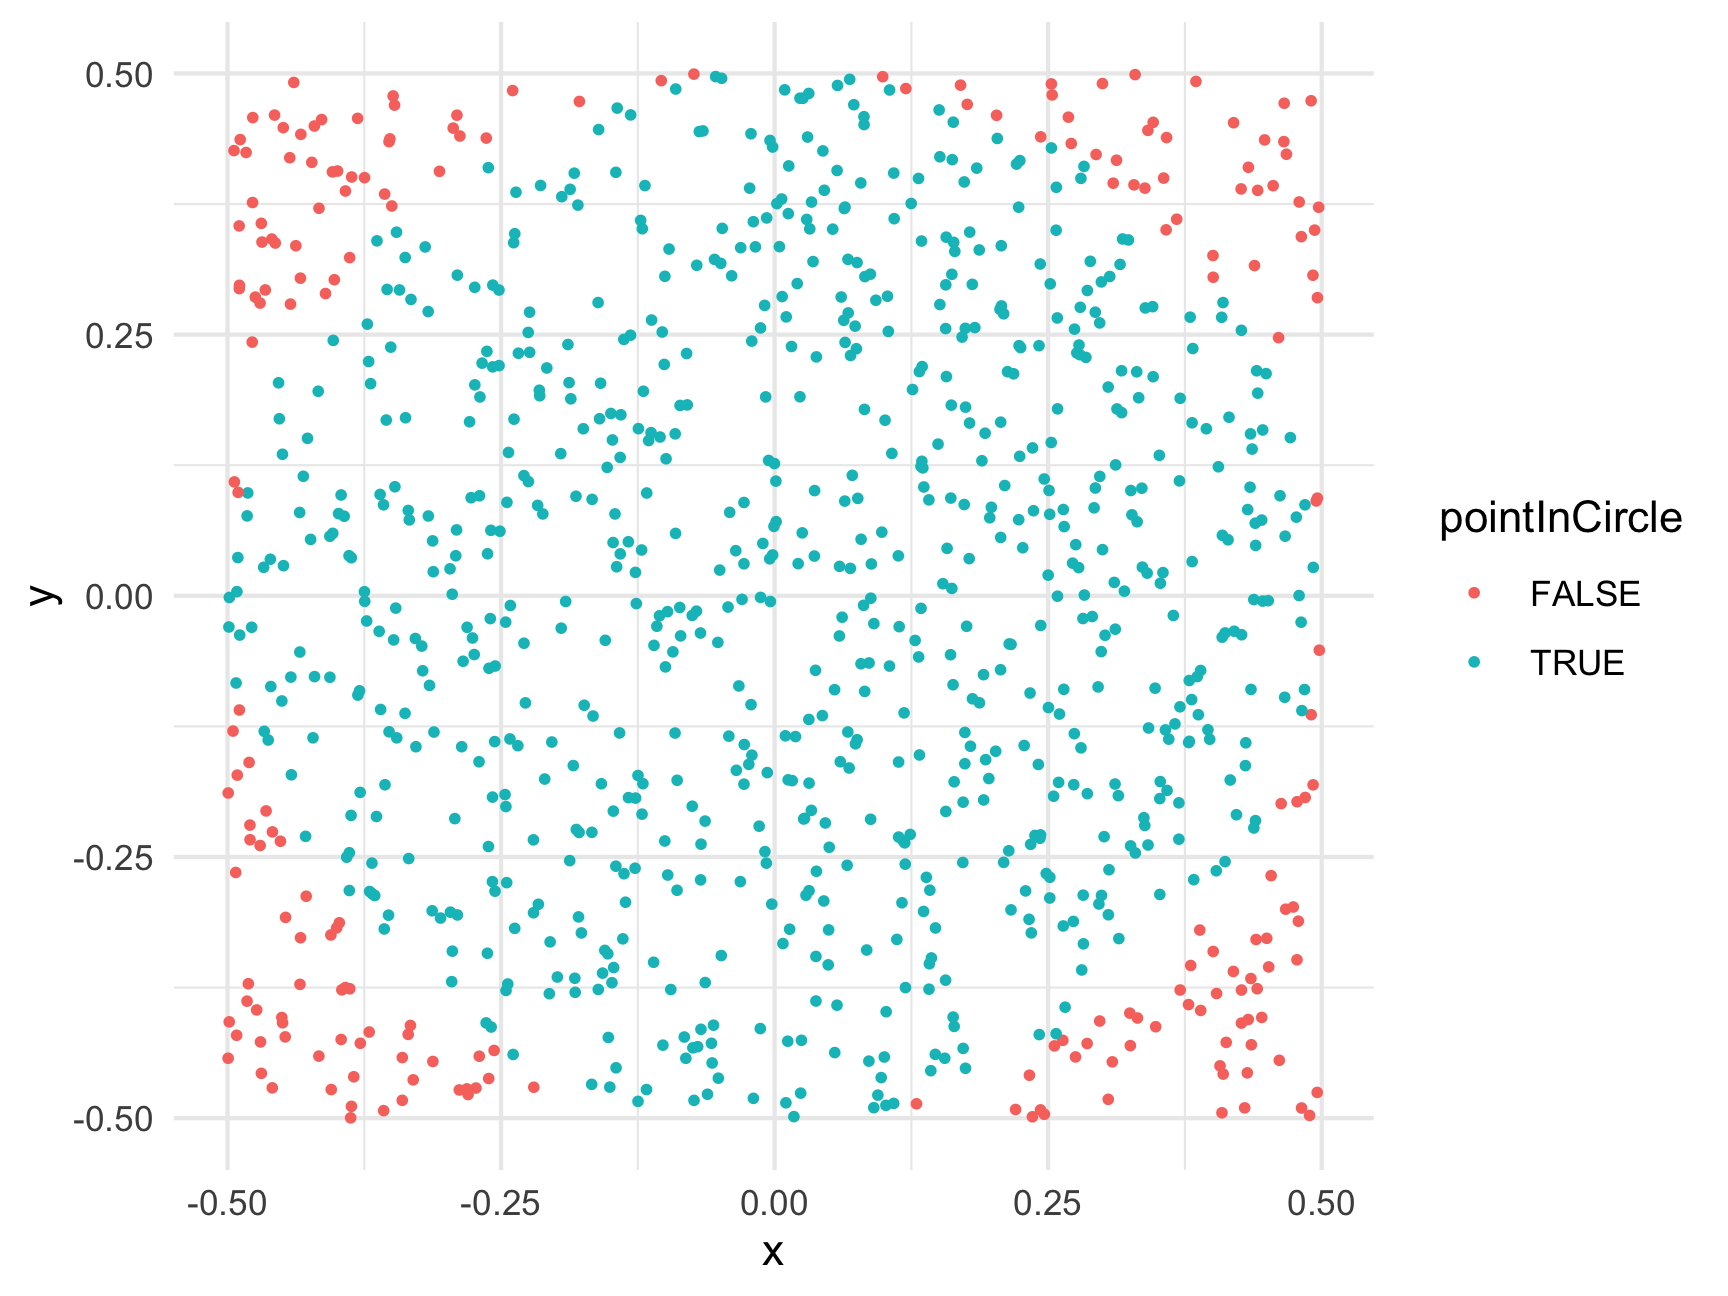
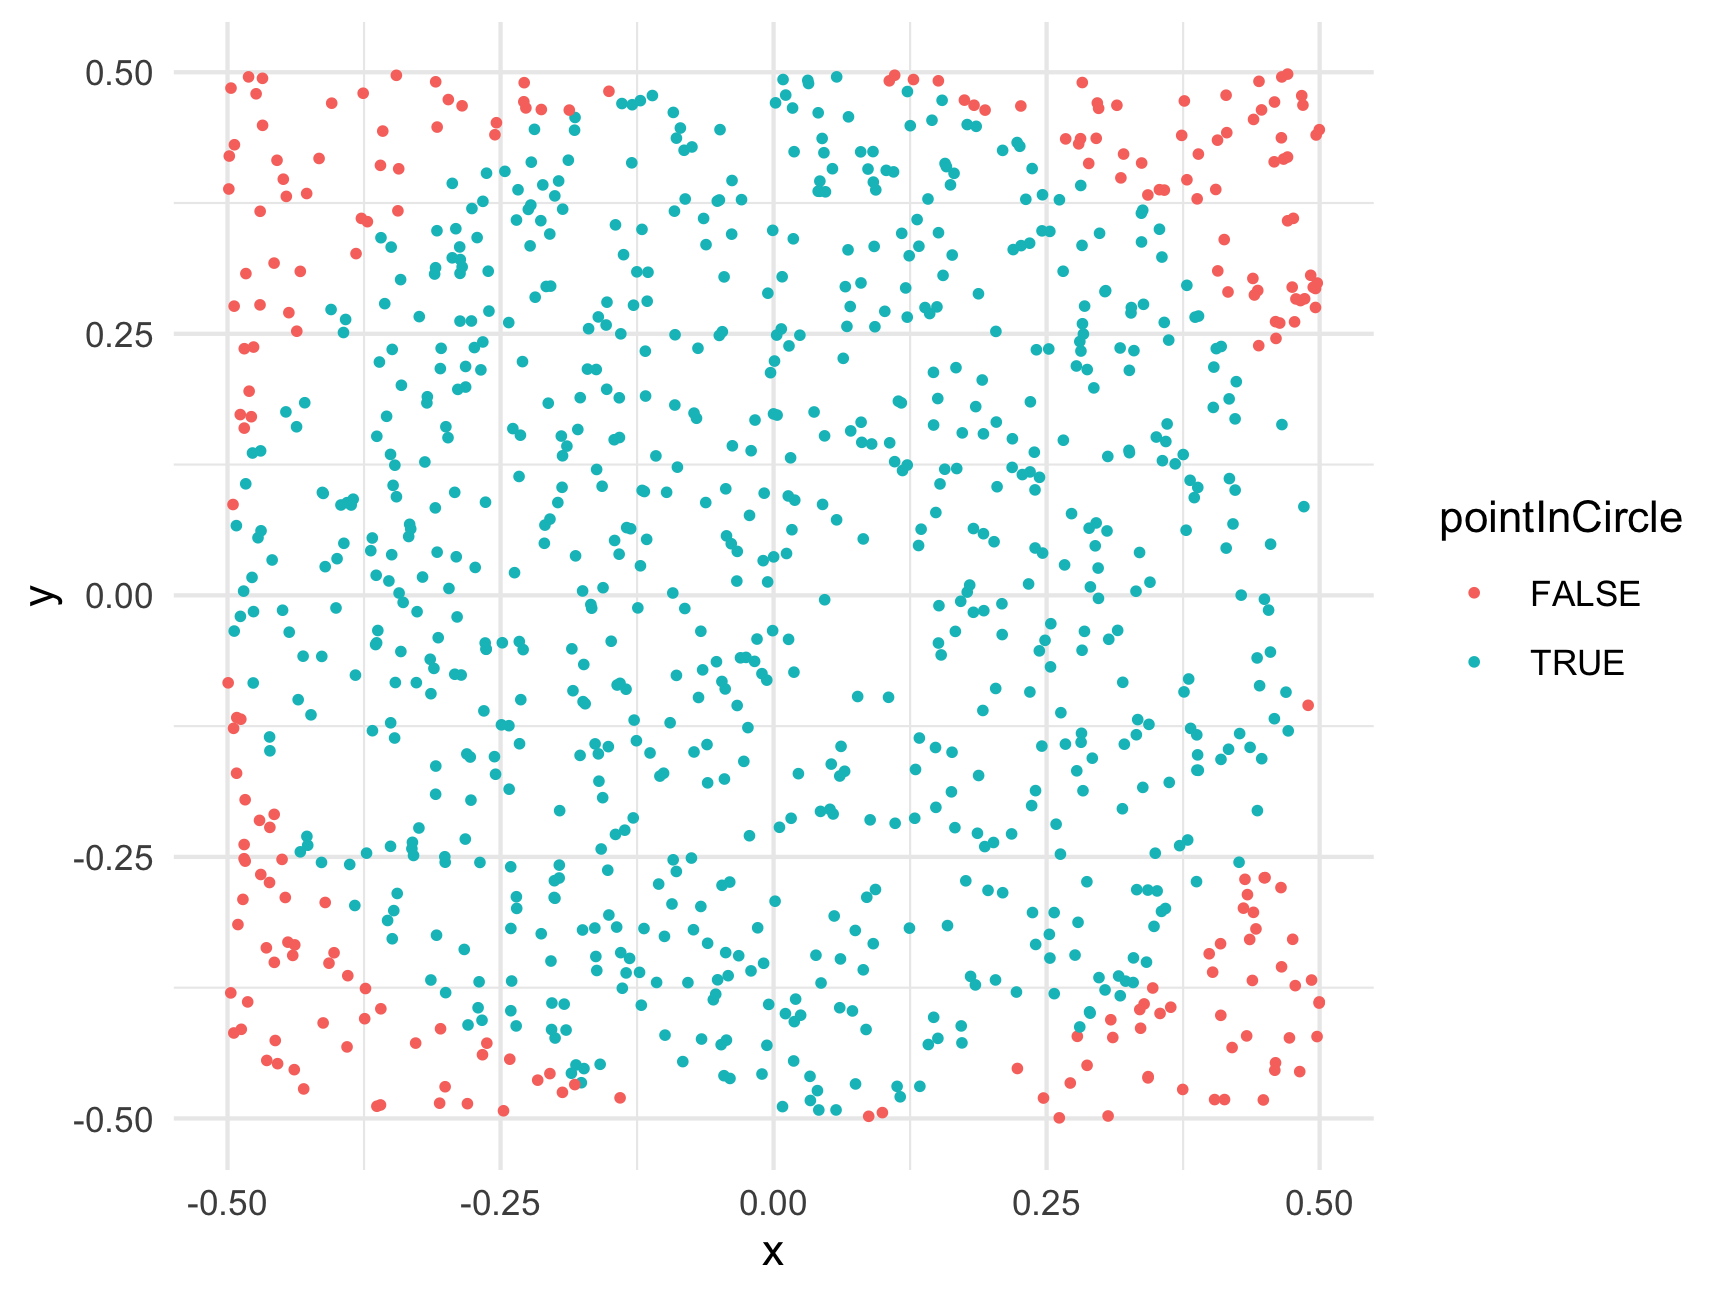
Deploying to gh-pages from  @ 3c5834ce94aec20487a9ab78e16fb2f2db5c8446 🚀

diff --git a/r13-monte-carlo-methods.html b/r13-monte-carlo-methods.html
@@ -805,11 +805,11 @@ ratio &lt;- sum(belowCurve) / numTrials
 totalArea &lt;- (7 - 3) * 7^2 # Rectangle length x height = 196
 areaUnderCurve &lt;- ratio * totalArea
 areaUnderCurve</code></pre>
-<pre><code>#&gt; [1] 105.3343</code></pre>
-<p>So, using Monte Carlo simulation with 100,000 points, we estimate that the area under the curve is 105.33432. How’d we do? Well, if you’re familiar with calculus, the integral of <span class="math inline">\(f(x) = x^2\)</span> has a closed-form solution (<span class="math inline">\(\frac{x^3}{3} + C\)</span>), so we can check our estimate against the pure-math solution:</p>
+<pre><code>#&gt; [1] 105.4264</code></pre>
+<p>So, using Monte Carlo simulation with 100,000 points, we estimate that the area under the curve is 105.42644. How’d we do? Well, if you’re familiar with calculus, the integral of <span class="math inline">\(f(x) = x^2\)</span> has a closed-form solution (<span class="math inline">\(\frac{x^3}{3} + C\)</span>), so we can check our estimate against the pure-math solution:</p>
 <p><span class="math display">\[\int_{3}^{7} x^2 \mathrm{dx} = \left ( \frac{x^3}{3} \right ) \Big|_3^7 = \frac{7^3}{3} - \frac{3^3}{3} = 105.33\bar{3}\]</span></p>
-<p>So our estimate error is: <code>105.333 -</code> <code>105.33432</code> <code>=</code> <code>-9.8666667\times 10^{-4}</code>.</p>
-<p>That’s an error of just 0 % - not bad!</p>
+<p>So our estimate error is: <code>105.333 -</code> <code>105.42644</code> <code>=</code> <code>-0.0931067</code>.</p>
+<p>That’s an error of just 0.09 % - not bad!</p>
 <hr />
 </div>
 <div id="monte-carlo-pi" class="section level1">
@@ -839,13 +839,13 @@ points &lt;- data.frame(
     x = runif(numTrials, -0.5, 0.5),
     y = runif(numTrials, -0.5, 0.5))
 head(points)</code></pre>
-<pre><code>#&gt;             x           y
-#&gt; 1  0.18081898 -0.09856553
-#&gt; 2 -0.11851708  0.39269053
-#&gt; 3  0.11892220 -0.23647738
-#&gt; 4  0.03818464 -0.26371439
-#&gt; 5  0.36024077 -0.13722109
-#&gt; 6 -0.41710722  0.19576507</code></pre>
+<pre><code>#&gt;            x             y
+#&gt; 1 -0.1388532  0.4700699679
+#&gt; 2 -0.2472824 -0.4926621153
+#&gt; 3  0.4281646  0.0001931088
+#&gt; 4  0.2814228  0.2335081240
+#&gt; 5  0.4226283  0.1006016806
+#&gt; 6  0.2309549  0.3785481735</code></pre>
 <p>For this example, we’re putting the points in a data frame to make it easier to work with. Now that we have random x and y points, let’s compute the radius to each point (the distance from <code>(x, y) = (0, 0)</code>) so we can determine which points fall inside the circle (which has a radius of 0.5):</p>
 <pre class="r"><code>library(dplyr)
 points &lt;- points %&gt;%
@@ -862,9 +862,9 @@ ggplot(points) +
 <pre class="r"><code>ratio &lt;- sum(points$pointInCircle) / nrow(points)
 piApprox &lt;- 4 * ratio
 piApprox</code></pre>
-<pre><code>#&gt; [1] 3.148</code></pre>
-<p>So our estimate error is: <code>3.1415 -</code> <code>3.148</code> <code>=</code> <code>0.0064073</code>.</p>
-<p>That’s an error of just 0.2 % - not bad for only 1,000 points!</p>
+<pre><code>#&gt; [1] 3.096</code></pre>
+<p>So our estimate error is: <code>3.1415 -</code> <code>3.096</code> <code>=</code> <code>-0.0455927</code>.</p>
+<p>That’s an error of just 1.45 % - not bad for only 1,000 points!</p>
 <p>To get an even better estimate of <span class="math inline">\(\pi\)</span>, we can increase N. Let’s see what we get with 100,000 trials:</p>
 <pre class="r"><code>numTrials &lt;- 100000
 points &lt;- data.frame(
@@ -876,13 +876,13 @@ points &lt;- data.frame(
 ratio &lt;- sum(points$pointInCircle) / nrow(points)
 piApprox &lt;- 4 * ratio
 piApprox</code></pre>
-<pre><code>#&gt; [1] 3.13324</code></pre>
+<pre><code>#&gt; [1] 3.13704</code></pre>
 <pre class="r"><code># Compute error:
 error &lt;- piApprox - pi
 percentError &lt;- round(100*abs(error / pi), 2)
 percentError</code></pre>
-<pre><code>#&gt; [1] 0.27</code></pre>
-<p>By increasing the number of trials from 1,000 to 100,000, we improved our estimate error from 0.2 % to 0.27 %!</p>
+<pre><code>#&gt; [1] 0.14</code></pre>
+<p>By increasing the number of trials from 1,000 to 100,000, we improved our estimate error from 1.45 % to 0.14 %!</p>
 <hr />
 <p><strong>Page sources</strong>:</p>
 <p>Some content on this page has been modified from other courses, including:</p>

diff --git a/r2-functions-packages.html b/r2-functions-packages.html
@@ -763,7 +763,7 @@ div.tocify {
 <p>Here the letters <code>sqrt</code> are short for “square root,” and the value inside the <code>()</code> is the “argument” to the function. In the example above, the value <code>225</code> is the “argument”.</p>
 <p>Keep in mind that not all functions have (or require) arguments:</p>
 <pre class="r"><code>date() # Returns the current date and time</code></pre>
-<pre><code>#&gt; [1] &quot;Thu Feb 10 17:46:27 2022&quot;</code></pre>
+<pre><code>#&gt; [1] &quot;Thu Feb 10 22:22:22 2022&quot;</code></pre>
 <p>(the date above is the date this page was last built)</p>
 <div id="multiple-arguments" class="section level2">
 <h2>Multiple arguments</h2>
@@ -981,9 +981,9 @@ library(packagename)   # This also works</code></pre>
 <p>Now that you have the package installed on your computer, try loading it using <code>library(wikifacts)</code>, then trying using some of it’s functions:</p>
 <pre class="r"><code>library(wikifacts) # Load the library</code></pre>
 <pre class="r"><code>wiki_randomfact()</code></pre>
-<pre><code>#&gt; [1] &quot;Did you know that on June 14 in 1888 – The Kingdom of Sarawak, on the northwestern part of the island of Borneo, was made a British protectorate. (Courtesy of Wikipedia)&quot;</code></pre>
+<pre><code>#&gt; [1] &quot;Did you know that on June 19 in 2010 – The royal wedding between Victoria, Crown Princess of Sweden, and Daniel Westling (both pictured) took place in Stockholm Cathedral. (Courtesy of Wikipedia)&quot;</code></pre>
 <pre class="r"><code>wiki_didyouknow()</code></pre>
-<pre><code>#&gt; [1] &quot;Did you know that Gerri Major was the first African American woman to announce programs on commercial radio? (Courtesy of Wikipedia)&quot;</code></pre>
+<pre><code>#&gt; [1] &quot;Did you know that Violet Lake, a high-elevation lake on the slope of the West Maui Mountains, was believed to be the home of the Hawaiian lizard goddess Kihawahine? (Courtesy of Wikipedia)&quot;</code></pre>
 <p>In case you’re wondering, the only thing this package does is generate messages containing random facts from <a href="https://www.wikipedia.org/">Wikipedia</a>.</p>
 </div>
 <div id="using-only-some-package-functions" class="section level2">
@@ -994,7 +994,7 @@ library(packagename)   # This also works</code></pre>
 </blockquote>
 <p>Here I use the name of the <em>package</em> followed by <code>::</code> to tell R that I’m looking for a function that is in that package. For example, if I didn’t want to load the whole <strong>wikifacts</strong> library but still wanted to use the <code>wiki_randomfact()</code> function, I could do this:</p>
 <pre class="r"><code>wikifacts::wiki_randomfact()</code></pre>
-<pre><code>#&gt; [1] &quot;Here&#39;s some news from 17 August 2020. Israel and the United Arab Emirates agree to establish diplomatic relations. (Courtesy of Wikipedia)&quot;</code></pre>
+<pre><code>#&gt; [1] &quot;Did you know that on July 23 in 1982 – During the filming of Twilight Zone: The Movie in Valencia, California, a helicopter crashed, killing three people and leading to new safety standards. (Courtesy of Wikipedia)&quot;</code></pre>
 <p>Where this is particularly handy is when two packages have a function with the same name. If you load both library, R might not know which function to use. In those cases, it’s best to also provide the <strong>package</strong> name. For example, let’s say there was a package called <strong>apples</strong> and another called <strong>bananas</strong>, and each had a function named <code>fruitName()</code>. If I wanted to use each of them in my code, I would need to specify the package names like this:</p>
 <pre class="r"><code>apples::fruitName()
 bananas::fruitName()</code></pre>
